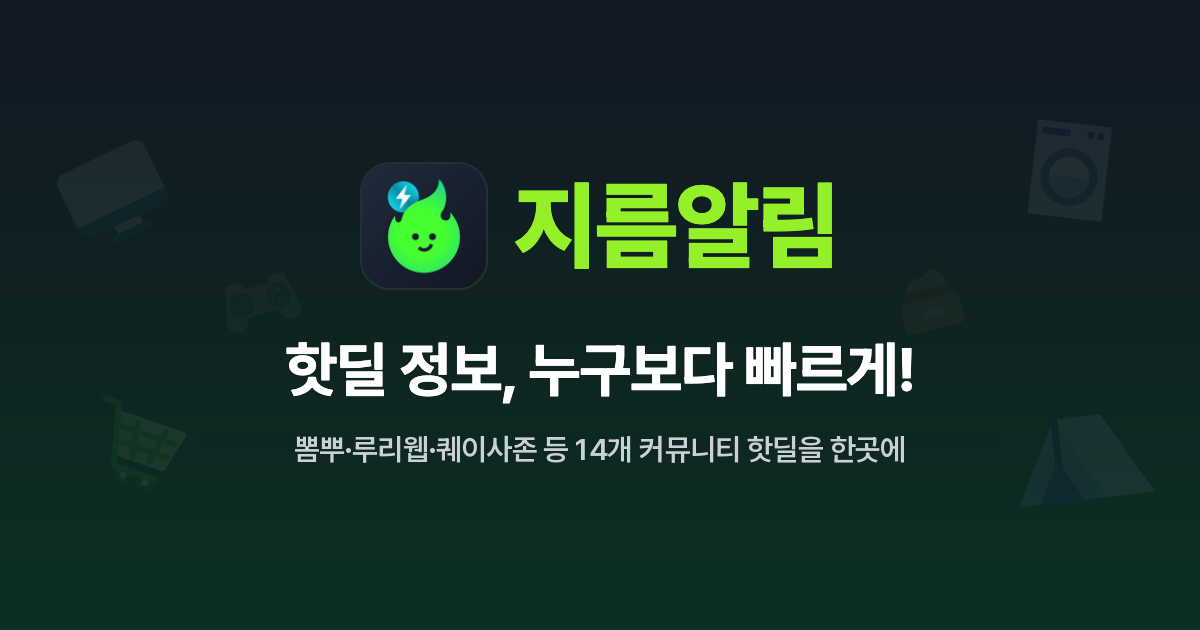
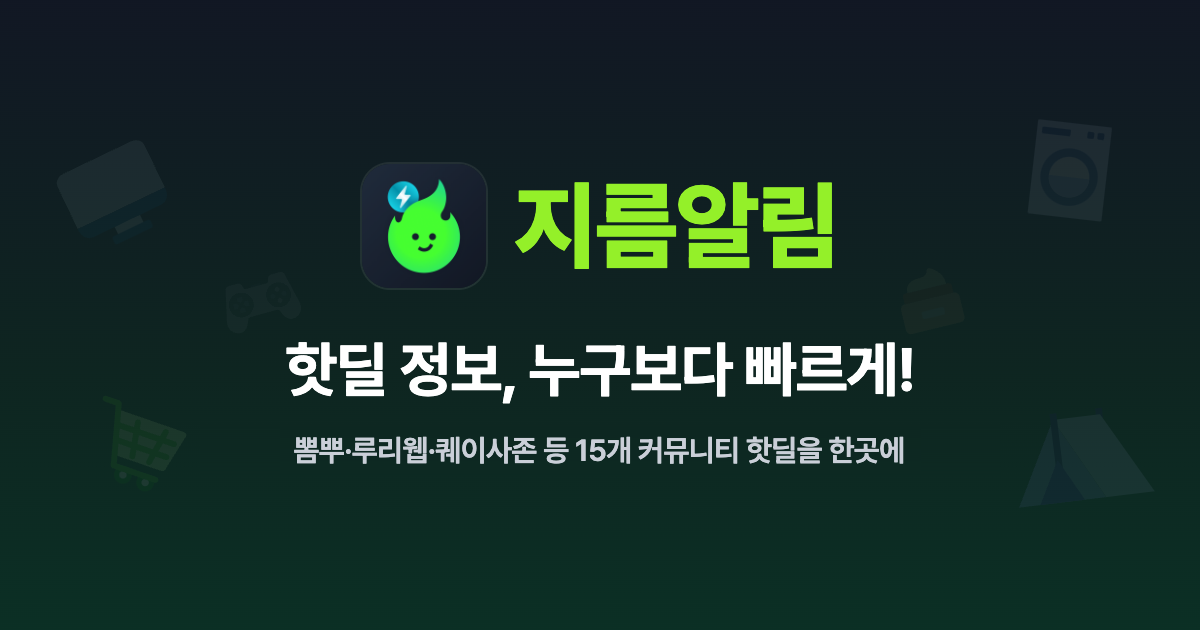
fix(service-facts): 커뮤니티 14곳 → 15곳 — 빠삭 추가(crawler 870b5af, provider 110)
SOURCE_COMMUNITIES 에 빠삭을 넣어 /help·llms.txt·홈 title·소개 페이지 숫자가 함께 15곳이 된다.
공유 미리보기 이미지(web opengraph-image.webp·landing opengraph-image.png)의 「14개 커뮤니티」 부제 한 줄은
10/21 과 같은 방법(원본 위 Pretendard SemiBold 30px·자간 -0.59px, playwright 렌더 → PIL 합성)으로 15개로 다시 그렸고 alt 도 맞췄다.
소개 영상 속 「14개」는 아직 그대로다(영상은 따로 굽는다 — runbook/landing-about-us-site.md).

Changed region(s): [[0.2467, 0.6937, 0.7708, 0.754]]

diff --git a/packages/domain/src/service-facts.ts b/packages/domain/src/service-facts.ts
@@ -2,7 +2,7 @@
  * 서비스 소개 숫자 — web /help·llms.txt 와 소개 페이지(about-us, apps/landing)가 같은 값을 쓴다.
  * 전엔 화면마다 따로 적어 소개 페이지는 「9개 커뮤니티」, /help 는 「13곳」으로 갈렸고 둘 다 실제와 달랐다(2026-10-21).
  *
- * 값은 운영 DB 실측(2026-10-21, 최근 3주): 크롤러 출처 중 커뮤니티(직접 등록·쇼핑몰이 운영하는 게시판 제외)가 14곳,
+ * 값은 운영 DB 실측(2026-10-21, 최근 3주): 크롤러 출처 중 커뮤니티(직접 등록·쇼핑몰이 운영하는 게시판 제외)가 14곳(10/23 빠삭 추가로 15곳),
  * 그 딜이 하루 1,000건 안팎(평일이 많고 주말이 적다). 크롤러를 더하거나 빼면 여기를 고친다 — 쓰는 곳은 모두 따라온다.
  * 이미지에 박힌 숫자는 따라오지 않는다 — 공유 미리보기(web public/opengraph-image.webp·landing opengraph-image.png + alt)와
  * 소개 영상은 다시 굽는다(영상은 vault runbook/landing-about-us-site.md).
@@ -24,6 +24,7 @@ export const SOURCE_COMMUNITIES = [
   '클리앙',
   '개드립',
   '시티',
+  '빠삭',
 ] as const;
 
 /** 커뮤니티 밖에서 따로 모으는 쇼핑몰 특가. */
